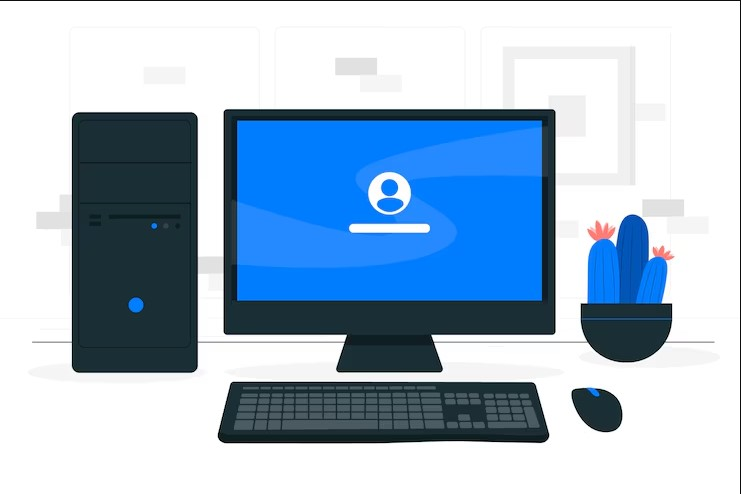
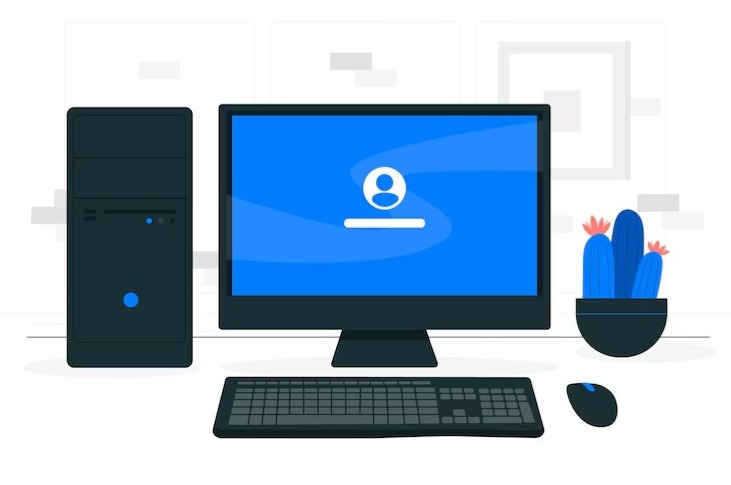
ajuste no carrosel

diff --git a/css/style.css b/css/style.css
@@ -97,20 +97,20 @@ body {
 .carousel-container {
     width: 100%;
     max-width: 600px;
-    height: 300px;
+    height: 300px; /* Ajuste conforme necessário */
     margin: auto;
     overflow: hidden;
     position: relative;
 }
 .carousel-slide {
     display: flex;
-    width: 300%; /* Cada imagem ocupa 100%, então o total é 3x100% */
+    width: 300%; /* Define a largura total baseada no número de imagens */
     transition: transform 0.5s ease-in-out;
 }
 .carousel-slide img {
-    width: 100%; /* Cada imagem ocupa exatamente o espaço do container */
-    height: auto;
-    object-fit: contain;
+    width: 100%; /* Garante que cada imagem ocupe 100% do container */
+    height: 100%; /* Define a altura total do container */
+    object-fit: cover; /* Ajusta a imagem para cobrir sem distorcer */
     border-radius: 10px;
 }
 .prev, .next {
